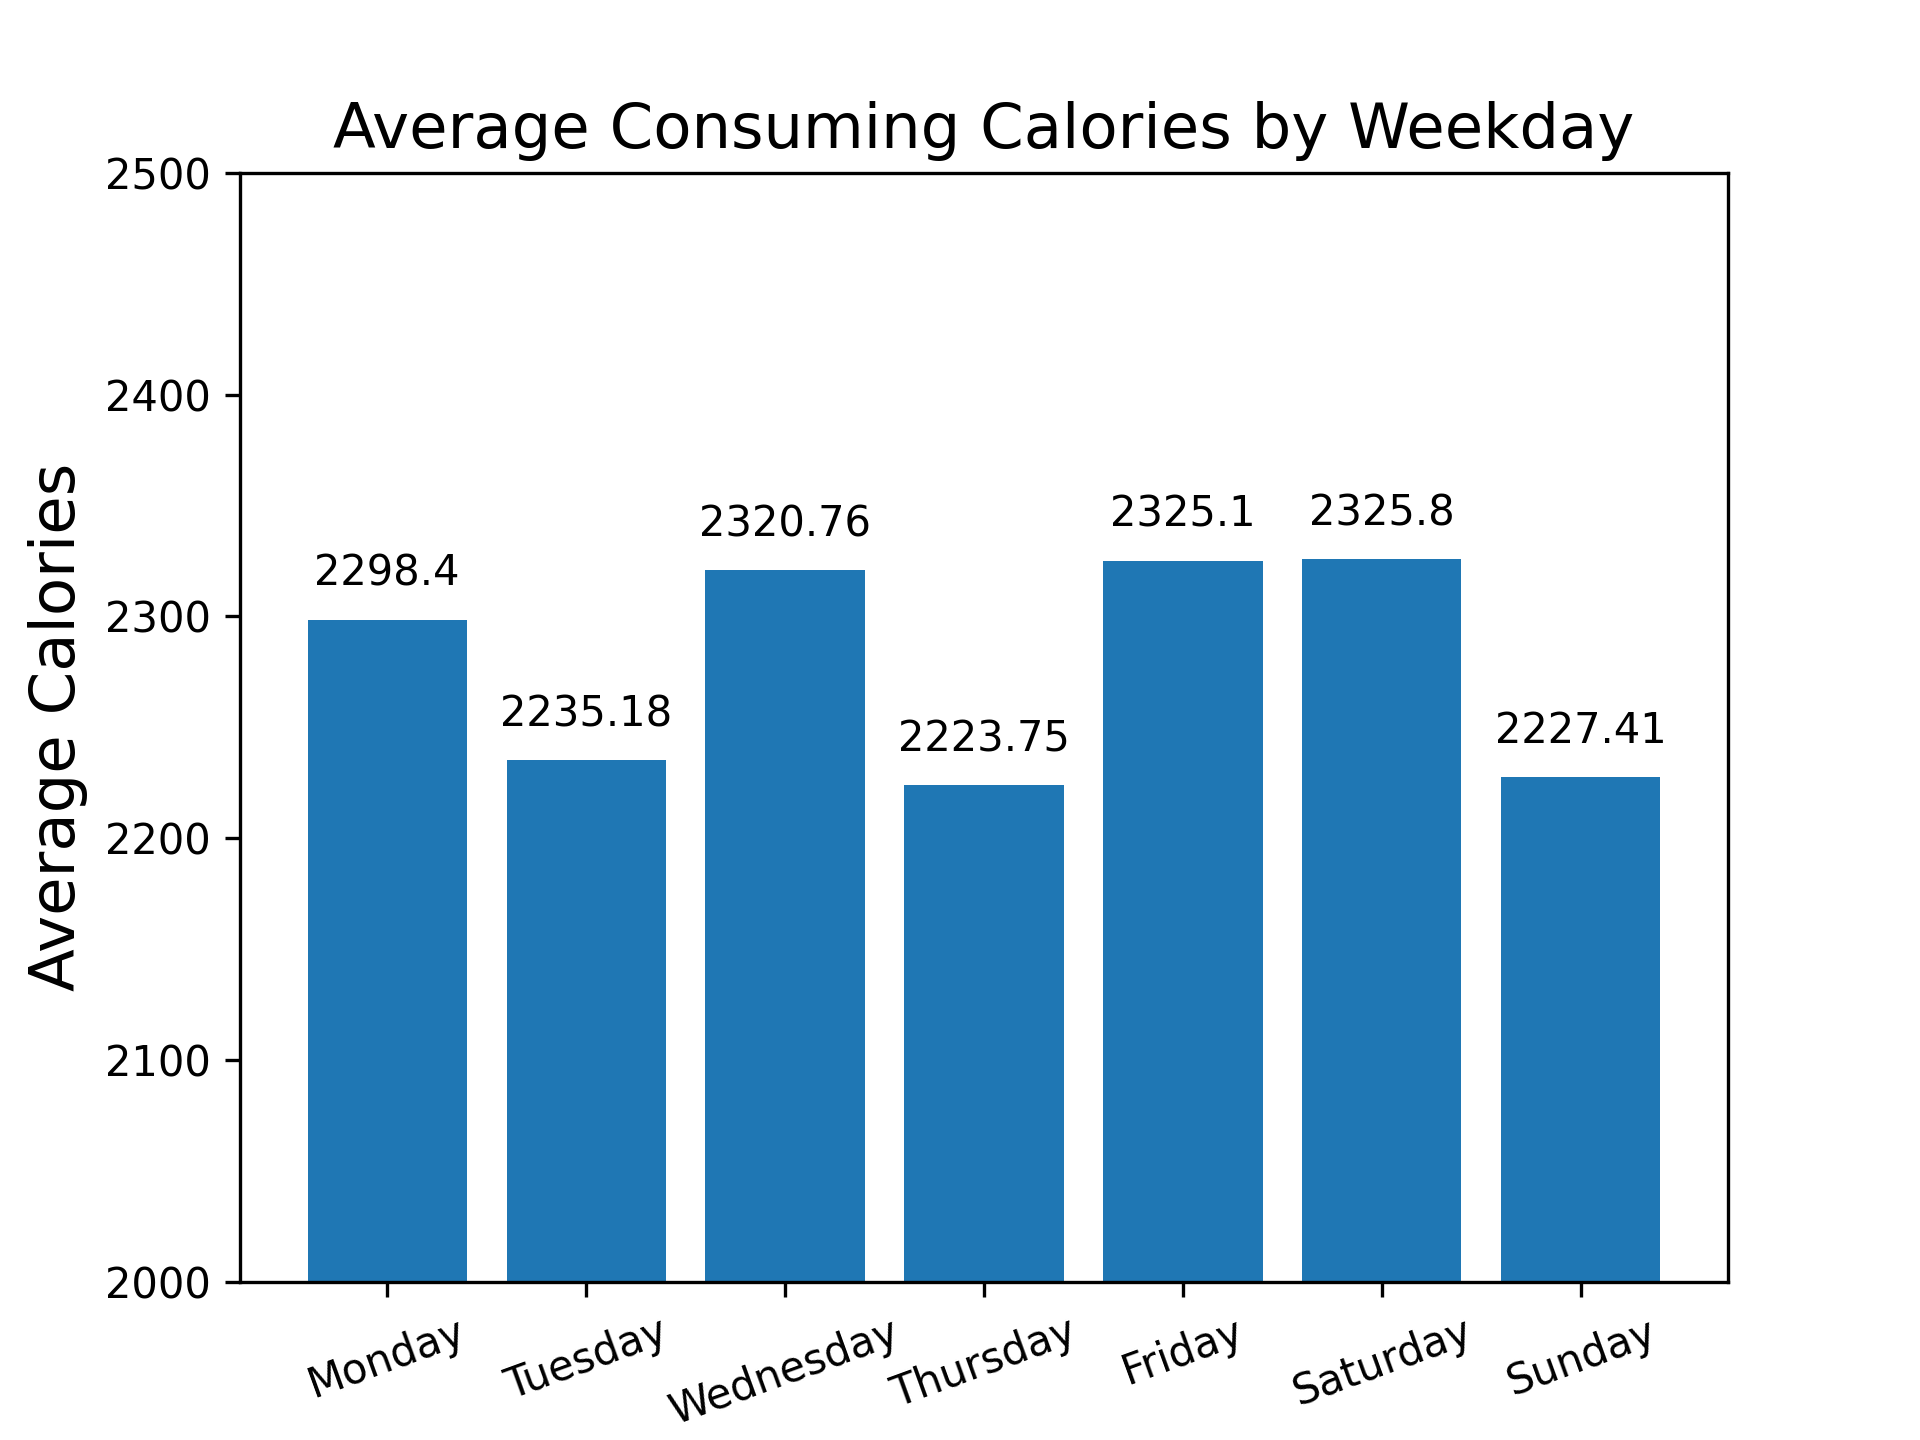
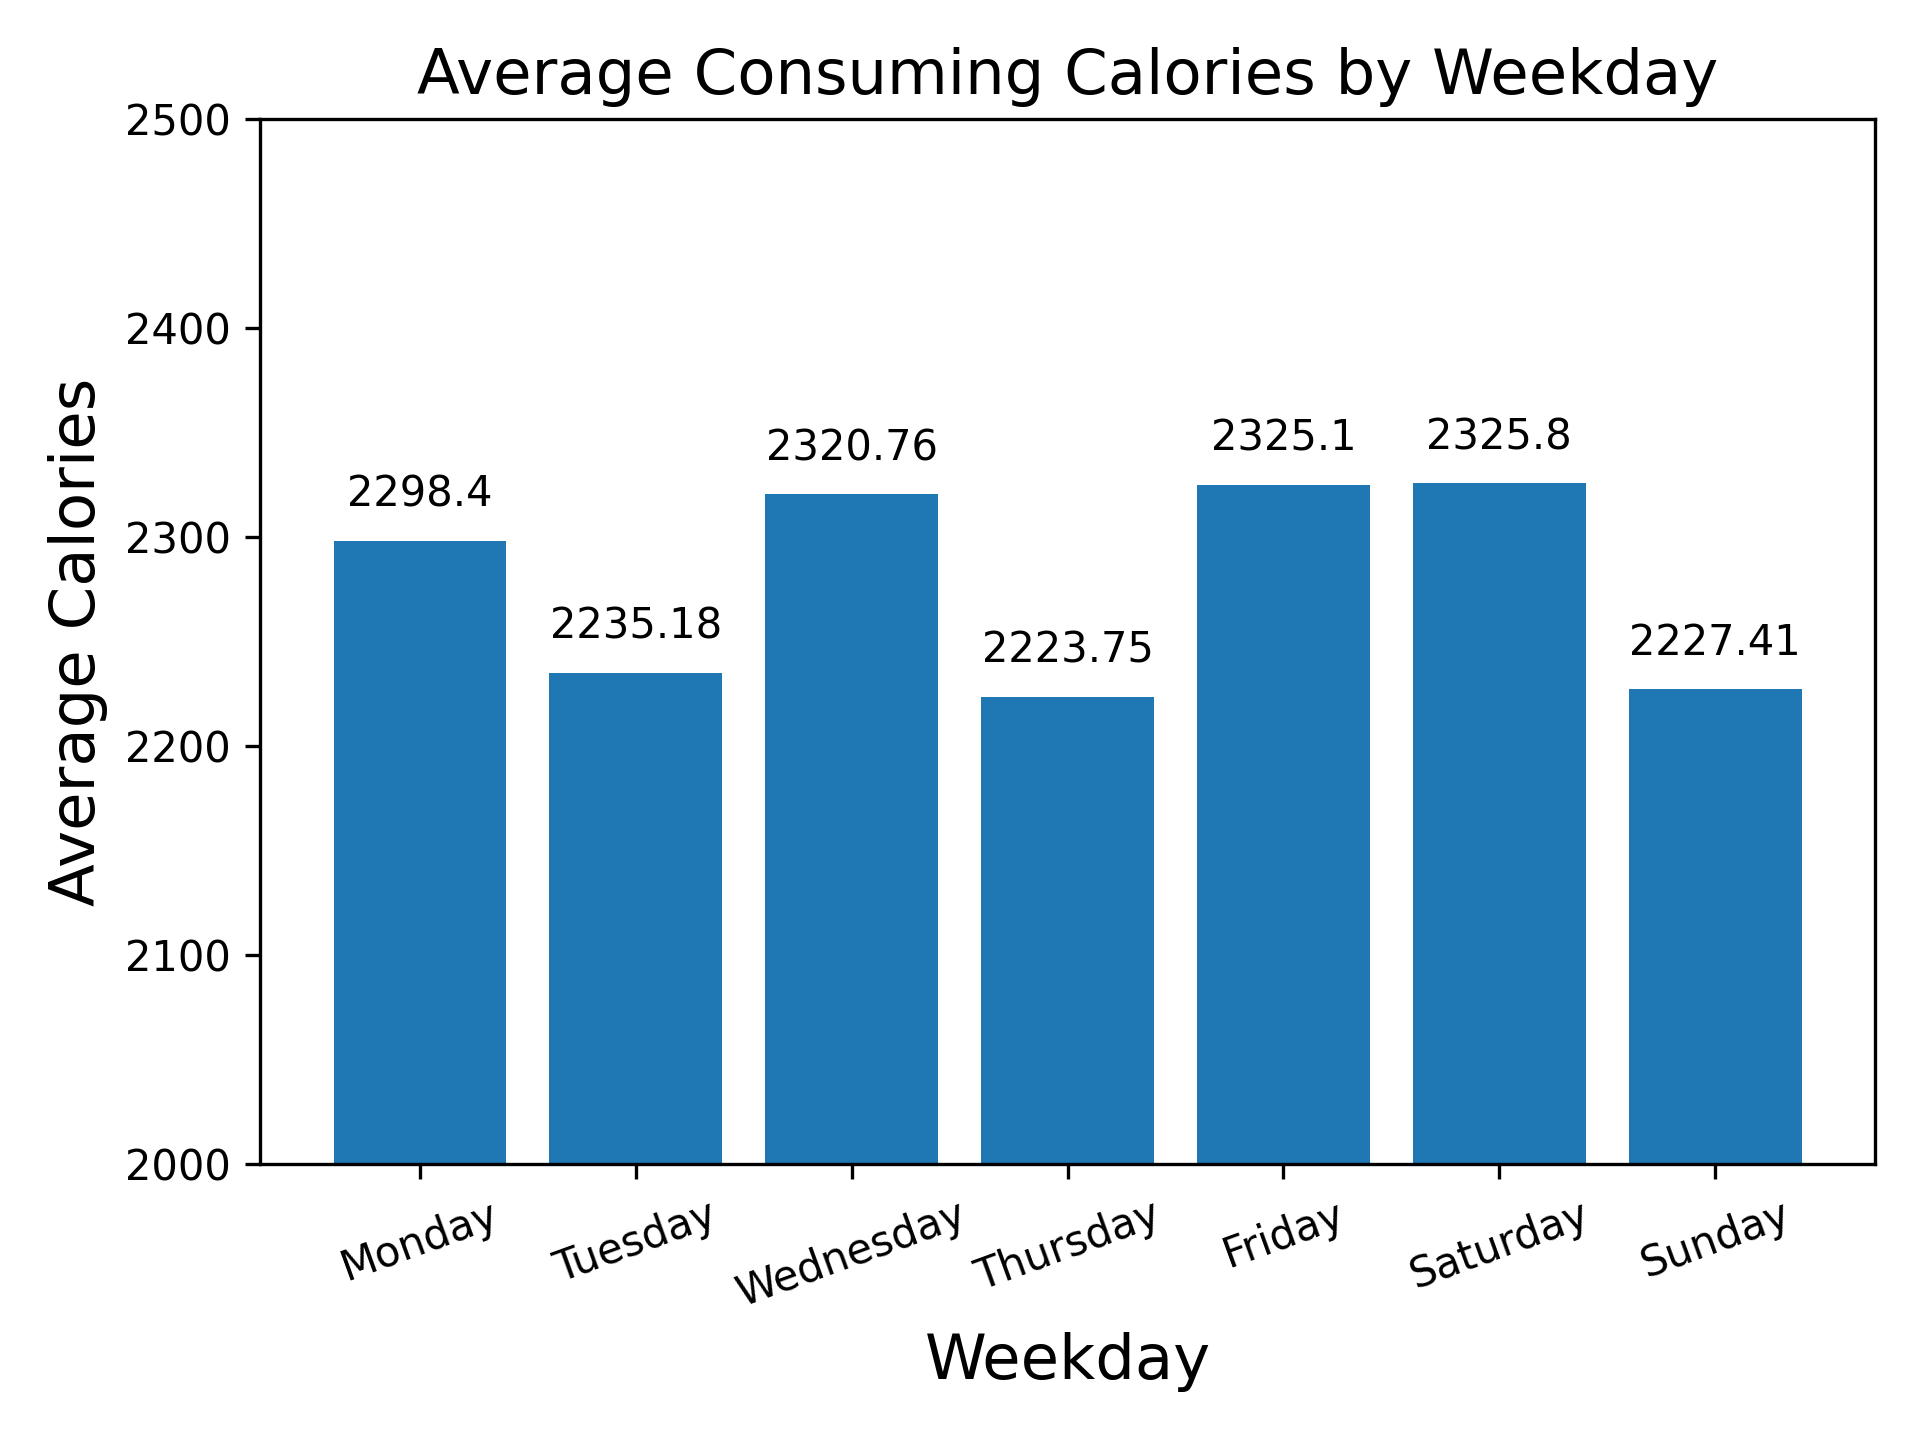
to adjust y label

diff --git a/analyze.py b/analyze.py
@@ -214,8 +214,9 @@ plt.gca().set_ylim(6500,8000)
 plt.title('Average Steps by Weekday', size=15)
 plt.xlabel('Weekday', size=15)
 plt.ylabel('Average Steps', size=15)
-plt.xticks(rotation=60)
+plt.xticks(rotation=20)
 plt.ticklabel_format(style='plain',axis='y')
+plt.tight_layout()
 plt.savefig("average_steps_by_weekday.png", dpi=300)
 plt.show()
 
@@ -226,8 +227,9 @@ plt.gca().set_ylim(400000,500000)
 plt.title('Total Consuming Calories by Weekday', size=15)
 plt.xlabel('Weekday', size=15)
 plt.ylabel('Total Calories', size=15)
-plt.xticks(rotation=60)
+plt.xticks(rotation=20)
 plt.ticklabel_format(style='plain',axis='y')
+plt.tight_layout()
 plt.savefig("total_consuming_calories_by_weekday.png", dpi=300)
 plt.show()
 
@@ -238,8 +240,9 @@ plt.gca().set_ylim(2000,2500)
 plt.title('Average Consuming Calories by Weekday', size=15)
 plt.xlabel('Weekday', size=15)
 plt.ylabel('Average Calories', size=15)
-plt.xticks(rotation=60)
+plt.xticks(rotation=20)
 plt.ticklabel_format(style='plain',axis='y')
+plt.tight_layout()
 plt.savefig("average_consuming_calories_by_weekday.png", dpi=300)
 plt.show()
 
@@ -315,6 +318,7 @@ plt.ylabel('# of Users', size=15)
 plt.axvline(user_median_steps, color='green', linestyle='--', linewidth=2, label=f'Median Steps: {int(user_median_steps)}') #to show median steps
 plt.legend()
 plt.xticks(rotation=60)
+plt.tight_layout()
 plt.savefig("distribution_of_total_steps.png", dpi=300)
 plt.show()
 
